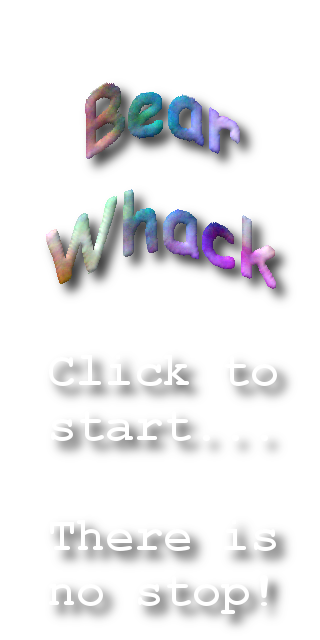
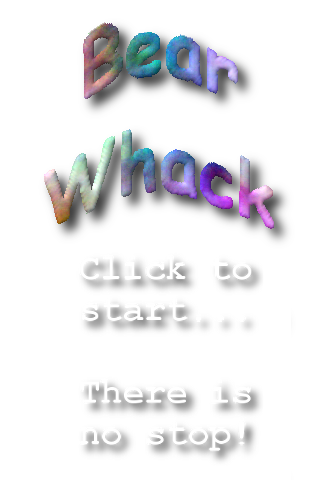
Update touchinteraction examples to new guidelines
Includes adding flickable examples

diff --git a/qtdeclarative/examples/quick/touchinteraction/flickable/basic-flickable.qml b/qtdeclarative/examples/quick/touchinteraction/flickable/basic-flickable.qml
@@ -1,0 +1,68 @@
+/****************************************************************************
+**
+** Copyright (C) 2012 Nokia Corporation and/or its subsidiary(-ies).
+** Contact: http://www.qt-project.org/
+**
+** This file is part of the examples of the Qt Toolkit.
+**
+** $QT_BEGIN_LICENSE:BSD$
+** You may use this file under the terms of the BSD license as follows:
+**
+** "Redistribution and use in source and binary forms, with or without
+** modification, are permitted provided that the following conditions are
+** met:
+**   * Redistributions of source code must retain the above copyright
+**     notice, this list of conditions and the following disclaimer.
+**   * Redistributions in binary form must reproduce the above copyright
+**     notice, this list of conditions and the following disclaimer in
+**     the documentation and/or other materials provided with the
+**     distribution.
+**   * Neither the name of Nokia Corporation and its Subsidiary(-ies) nor
+**     the names of its contributors may be used to endorse or promote
+**     products derived from this software without specific prior written
+**     permission.
+**
+** THIS SOFTWARE IS PROVIDED BY THE COPYRIGHT HOLDERS AND CONTRIBUTORS
+** "AS IS" AND ANY EXPRESS OR IMPLIED WARRANTIES, INCLUDING, BUT NOT
+** LIMITED TO, THE IMPLIED WARRANTIES OF MERCHANTABILITY AND FITNESS FOR
+** A PARTICULAR PURPOSE ARE DISCLAIMED. IN NO EVENT SHALL THE COPYRIGHT
+** OWNER OR CONTRIBUTORS BE LIABLE FOR ANY DIRECT, INDIRECT, INCIDENTAL,
+** SPECIAL, EXEMPLARY, OR CONSEQUENTIAL DAMAGES (INCLUDING, BUT NOT
+** LIMITED TO, PROCUREMENT OF SUBSTITUTE GOODS OR SERVICES; LOSS OF USE,
+** DATA, OR PROFITS; OR BUSINESS INTERRUPTION) HOWEVER CAUSED AND ON ANY
+** THEORY OF LIABILITY, WHETHER IN CONTRACT, STRICT LIABILITY, OR TORT
+** (INCLUDING NEGLIGENCE OR OTHERWISE) ARISING IN ANY WAY OUT OF THE USE
+** OF THIS SOFTWARE, EVEN IF ADVISED OF THE POSSIBILITY OF SUCH DAMAGE."
+**
+** $QT_END_LICENSE$
+**
+****************************************************************************/
+
+import QtQuick 2.0
+
+Rectangle {
+    width: 320
+    height: 480
+    Flickable {
+        anchors.fill: parent
+        contentWidth: 1200
+        contentHeight: 1200
+        Rectangle {
+            width: 1000
+            height: 1000
+            x: 100
+            y: 100
+            radius: 128
+            border.width: 4
+            border.color: "black"
+            gradient: Gradient {
+                GradientStop { position: 0.0; color: "#000000" }
+                GradientStop { position: 0.2; color: "#888888" }
+                GradientStop { position: 0.4; color: "#FFFFFF" }
+                GradientStop { position: 0.6; color: "#FFFFFF" }
+                GradientStop { position: 0.8; color: "#888888" }
+                GradientStop { position: 1.0; color: "#000000" }
+            }
+        }
+    }
+}

diff --git a/qtdeclarative/examples/quick/touchinteraction/flickable/corkboards.qml b/qtdeclarative/examples/quick/touchinteraction/flickable/corkboards.qml
@@ -42,62 +42,33 @@ import QtQuick 2.0
 import "content"
 
 Rectangle {
-    width: 800; height: 480
+    width: 320; height: 480
     color: "#464646"
 
     ListModel {
         id: list
 
         ListElement {
-            name: "Sunday"
+            name: "Panel One"
             notes: [ 
-                ListElement { noteText: "Lunch" },
-                ListElement { noteText: "Birthday Party" }
+                ListElement { noteText: "Tap to edit" },
+                ListElement { noteText: "Drag to move" },
+                ListElement { noteText: "Flick to scroll" }
             ]
         }
         
         ListElement {
-            name: "Monday"
+            name: "Panel Two"
             notes: [
-                ListElement { noteText: "Pickup kids from\nschool\n4.30pm" },
-                ListElement { noteText: "Checkout Qt" }, ListElement { noteText: "Read email" }
+                ListElement { noteText: "Note One" },
+                ListElement { noteText: "Note Two" }
             ]
         }
 
         ListElement {
-            name: "Tuesday"
+            name: "Panel Three"
             notes: [
-                ListElement { noteText: "Walk dog" },
-                ListElement { noteText: "Buy newspaper" }
-            ]
-        }
-
-        ListElement {
-            name: "Wednesday"
-            notes: [ ListElement { noteText: "Cook dinner" } ]
-        }
-
-        ListElement {
-            name: "Thursday"
-            notes: [
-                ListElement { noteText: "Meeting\n5.30pm" },
-                ListElement { noteText: "Weed garden" }
-            ]
-        }
-
-        ListElement {
-            name: "Friday"
-            notes: [
-                ListElement { noteText: "More work" },
-                ListElement { noteText: "Grocery shopping" }
-            ]
-        }
-
-        ListElement {
-            name: "Saturday"
-            notes: [
-                ListElement { noteText: "Drink" },
-                ListElement { noteText: "Download Qt\nPlay with QML" }
+                ListElement { noteText: "Note Three" }
             ]
         }
     }
@@ -111,6 +82,6 @@ Rectangle {
         orientation: ListView.Horizontal
         snapMode: ListView.SnapOneItem
         model: list
-        delegate: Day { }
+        delegate: Panel { }
     }
 }

diff --git a/qtdeclarative/examples/quick/touchinteraction/touchinteraction.qml b/qtdeclarative/examples/quick/touchinteraction/touchinteraction.qml
@@ -41,6 +41,25 @@
 import QtQuick 2.0
 import "../../shared"
 
+/*!
+    \title QtQuick Examples - Touch Interaction
+    \example qtquick/touchinteraction
+    \brief This is a collection of QML Touch Interaction examples.
+    \image qml-touchinteraction-example.png
+
+    This is a collection of small QML examples relating to touch interaction methods.
+
+    Multipoint Flames demonstrates distinguishing different fingers in a MultiPointTouchArea, by assignning a different colored flame to each touch point.
+
+    Bear-Whack demonstrates using a MultiPointTouchArea to add multiple finger support to a simple game.
+
+    Flick Resize uses a PinchArea to allow Pinch-to-Resize behavior.
+
+    Flickable is a simple example demonstrating the Flickable element.
+
+    Corkboards shows a more complex Flickable usecase, with elements on the flickable that respond to mouse and keyboard interaction.
+*/
+
 Item {
     height: 480
     width: 320
@@ -51,6 +70,8 @@ Item {
             addExample("Multipoint Flames", "Create multiple flames with multiple fingers", Qt.resolvedUrl("multipointtouch/multiflame.qml"));
             addExample("Bear-Whack", "Use multiple touches to knock all the bears down",  Qt.resolvedUrl("multipointtouch/bearwhack.qml"));
             addExample("Flick Resize", "Manipulate images using pinch gestures", Qt.resolvedUrl("pincharea/flickresize.qml"));
+            addExample("Flickable", "A viewport you can move with touch gestures", Qt.resolvedUrl("flickable/basic-flickable.qml"));
+            addExample("Corkboards", "Uses touch input on items inside a Flickable", Qt.resolvedUrl("flickable/corkboards.qml"));
         }
     }
 }

diff --git a/qtdeclarative/examples/quick/touchinteraction/flickable/content/Panel.qml b/qtdeclarative/examples/quick/touchinteraction/flickable/content/Panel.qml
@@ -48,7 +48,7 @@ Component {
         width: ListView.view.width+40; height: ListView.view.height
 
 
-        Image { 
+        Image {
             source: "cork.jpg"
             width: page.ListView.view.width
             height: page.ListView.view.height

diff --git a/qtdeclarative/examples/quick/touchinteraction/multipointtouch/bearwhack.qml b/qtdeclarative/examples/quick/touchinteraction/multipointtouch/bearwhack.qml
@@ -43,7 +43,7 @@ import "content"
 
 Item {
     id: root
-    height: 640
+    height: 480
     width: 320
     Item {
         id: startScreen

diff --git a/qtdeclarative/examples/quick/touchinteraction/main.cpp b/qtdeclarative/examples/quick/touchinteraction/main.cpp
@@ -1,0 +1,41 @@
+/****************************************************************************
+**
+** Copyright (C) 2012 Nokia Corporation and/or its subsidiary(-ies).
+** Contact: http://www.qt-project.org/
+**
+** This file is part of the examples of the Qt Toolkit.
+**
+** $QT_BEGIN_LICENSE:BSD$
+** You may use this file under the terms of the BSD license as follows:
+**
+** "Redistribution and use in source and binary forms, with or without
+** modification, are permitted provided that the following conditions are
+** met:
+**   * Redistributions of source code must retain the above copyright
+**     notice, this list of conditions and the following disclaimer.
+**   * Redistributions in binary form must reproduce the above copyright
+**     notice, this list of conditions and the following disclaimer in
+**     the documentation and/or other materials provided with the
+**     distribution.
+**   * Neither the name of Nokia Corporation and its Subsidiary(-ies) nor
+**     the names of its contributors may be used to endorse or promote
+**     products derived from this software without specific prior written
+**     permission.
+**
+** THIS SOFTWARE IS PROVIDED BY THE COPYRIGHT HOLDERS AND CONTRIBUTORS
+** "AS IS" AND ANY EXPRESS OR IMPLIED WARRANTIES, INCLUDING, BUT NOT
+** LIMITED TO, THE IMPLIED WARRANTIES OF MERCHANTABILITY AND FITNESS FOR
+** A PARTICULAR PURPOSE ARE DISCLAIMED. IN NO EVENT SHALL THE COPYRIGHT
+** OWNER OR CONTRIBUTORS BE LIABLE FOR ANY DIRECT, INDIRECT, INCIDENTAL,
+** SPECIAL, EXEMPLARY, OR CONSEQUENTIAL DAMAGES (INCLUDING, BUT NOT
+** LIMITED TO, PROCUREMENT OF SUBSTITUTE GOODS OR SERVICES; LOSS OF USE,
+** DATA, OR PROFITS; OR BUSINESS INTERRUPTION) HOWEVER CAUSED AND ON ANY
+** THEORY OF LIABILITY, WHETHER IN CONTRACT, STRICT LIABILITY, OR TORT
+** (INCLUDING NEGLIGENCE OR OTHERWISE) ARISING IN ANY WAY OUT OF THE USE
+** OF THIS SOFTWARE, EVEN IF ADVISED OF THE POSSIBILITY OF SUCH DAMAGE."
+**
+** $QT_END_LICENSE$
+**
+****************************************************************************/
+#include "../../shared/shared.h"
+DECLARATIVE_EXAMPLE_MAIN(touchinteraction)
